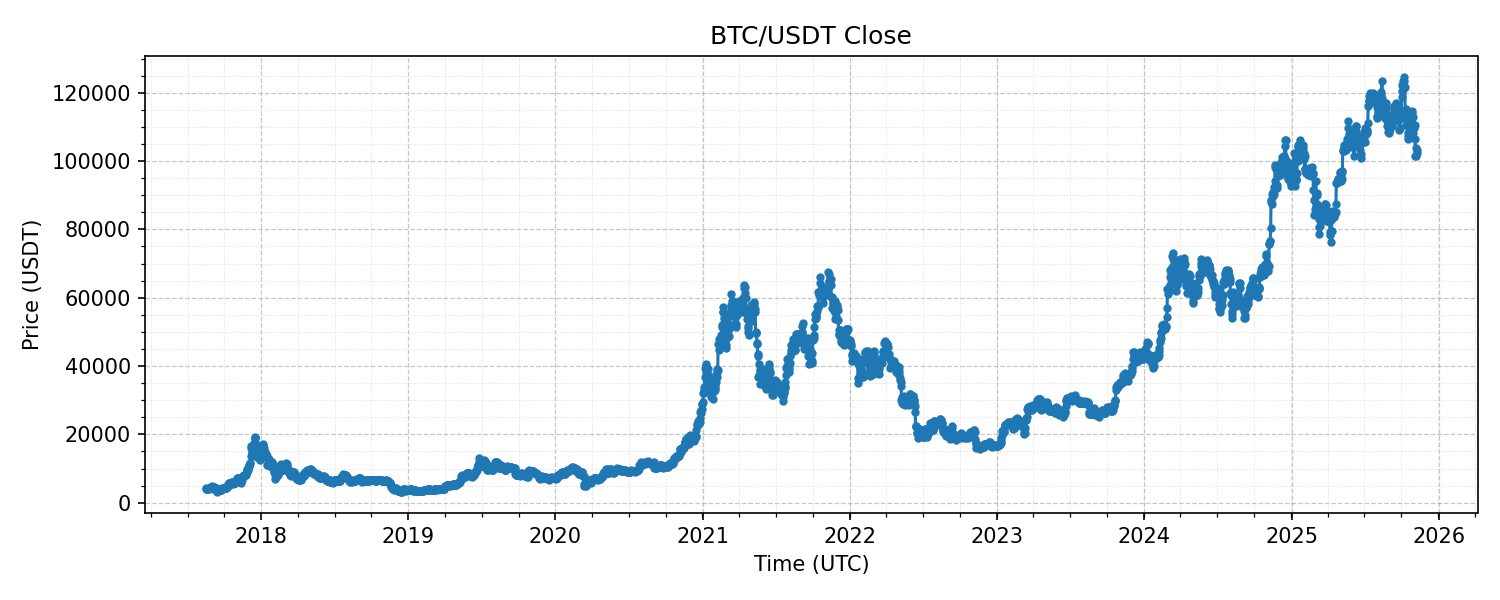
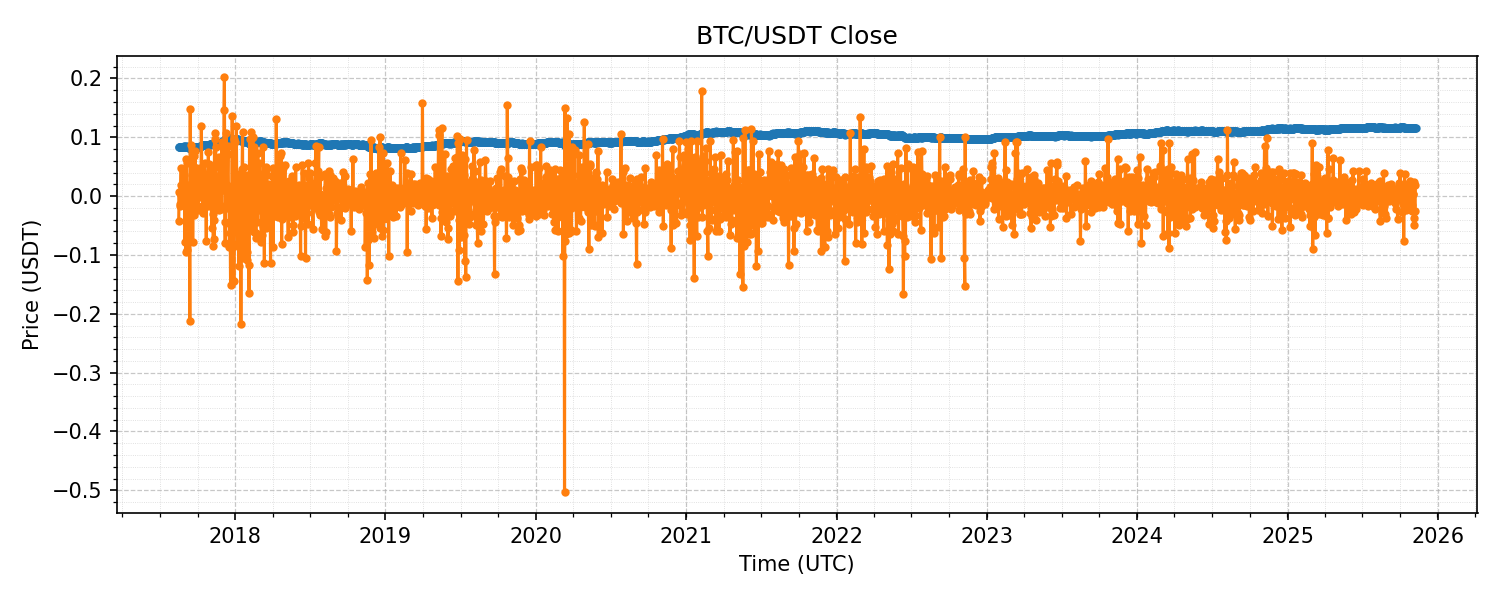
before test

diff --git a/code/test.py b/code/test.py
@@ -24,11 +24,11 @@ logging.info(f"{DP.table['Close']}")
 logging.info(f"{type(DP.table['Close'])}")
 
 close_ca = DP.table["Close"].combine_chunks()  # ChunkedArray -> Array(ListType)
-close_list = close_ca.to_pylist()
+close_list = close_ca.to_pylist()[:-1]
 close = np.asarray(close_list, dtype=np.float64)  # 价格字符串 -> float64
 
 open_time_ca = DP.table["Open Time"].combine_chunks()  # 同理
-open_time_list = open_time_ca.to_pylist()  # -> Python list of int(ms)
+open_time_list = open_time_ca.to_pylist()[:-1]  # -> Python list of int(ms)
 time = np.asarray(open_time_list, dtype="datetime64[ms]")  # 毫秒 -> datetime64[ms]
 
 logging.info(f"{open_time_ca}")
@@ -36,11 +36,14 @@ logging.info(f"{open_time_list}")
 logging.info(f"{time}")
 logging.info(f"{len(close)}")
 
+r = np.diff(np.log(close))
+
 import matplotlib.pyplot as plt
 import matplotlib.dates as mdates
 
 fig, ax = plt.subplots(figsize=(10, 4))
-ax.plot(time, close, ".-")
+ax.plot(time, np.log(close) / 100, ".-")
+ax.plot(time[:-1], r, ".-")
 ax.set_title("BTC/USDT Close")
 ax.set_xlabel("Time (UTC)")
 ax.set_ylabel("Price (USDT)")
